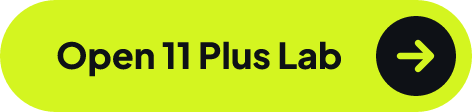
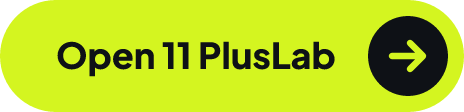
Outreach email: brand 'Try 11 PlusLab free' button; buttons use the new name

diff --git a/server/email.js b/server/email.js
@@ -66,7 +66,7 @@ function p(html) {
 // recolours HTML (lime turns dark green) but never images. Any other label
 // falls back to an HTML pill, which still works, just recoloured in dark mode.
 const BUTTON_IMAGES = {
-  "Start practising": ["btn-start", 230], "Open 11 PlusLab": ["btn-open", 236], "Play a quick round": ["btn-play", 252],
+  "Start practising": ["btn-start", 230], "Open 11 PlusLab": ["btn-open", 232], "Play a quick round": ["btn-play", 252], "Try 11 PlusLab free": ["btn-try", 249],
 };
 function button({ label, url }) {
   const img = BUTTON_IMAGES[label];
@@ -331,7 +331,7 @@ ${P("It's short, game-style practice for synonyms, antonyms, compound words, spe
 ${P("Children can also add their friends and compete on a weekly leaderboard, which is a big part of what keeps them coming back to practise.")}
 ${P(`Parents can sign up free at <a href="${SITE}" style="color:#0B7FC7;font-weight:700">11pluslab.com</a> and their child can start playing straight away. If you'd like to share it with your students, their parents can use the code <strong style="background:#F3FBD4;padding:2px 6px;border-radius:6px;letter-spacing:.03em">${escapeHtml(code)}</strong> for 20% off their first month of Full Access (£3.99 instead of £4.99).`)}
 <p style="margin:0 0 18px"><a href="${SITE}"><img src="${SITE}/email/outreach-games.png" width="520" height="352" alt="The seven 11 PlusLab games: Synonyms, Antonyms, Compound Words, Word Detective, Punctuation, Spelling and Parts of Speech, plus a Word List" style="display:block;border:0;width:100%;max-width:520px;height:auto;border-radius:16px;font-family:Helvetica,Arial,sans-serif;font-size:13px;color:#5E6C7C"></a></p>
-<p style="margin:4px 0 22px"><a href="${SITE}" style="display:inline-block;background:#D4F520;color:#0E1116;font-family:Helvetica,Arial,sans-serif;font-size:15px;font-weight:700;text-decoration:none;padding:12px 20px;border-radius:999px">See 11 PlusLab &rarr;</a></p>
+<p style="margin:4px 0 22px"><a href="${SITE}" style="text-decoration:none"><img src="${SITE}/email/btn-try.png" width="249" height="56" alt="Try 11 PlusLab free →" style="display:block;border:0;font-family:Helvetica,Arial,sans-serif;font-size:16px;font-weight:700;color:#0E1116"></a></p>
 ${P("I'd really value your thoughts, even if it's not a fit for you. Just reply to this email.")}
 <table role="presentation" cellpadding="0" cellspacing="0" style="margin:8px 0 26px"><tr>
 <td style="padding-right:12px"><img src="${SITE}/pwa-192.png" width="40" height="40" alt="" style="display:block;border:0;border-radius:10px"></td>
